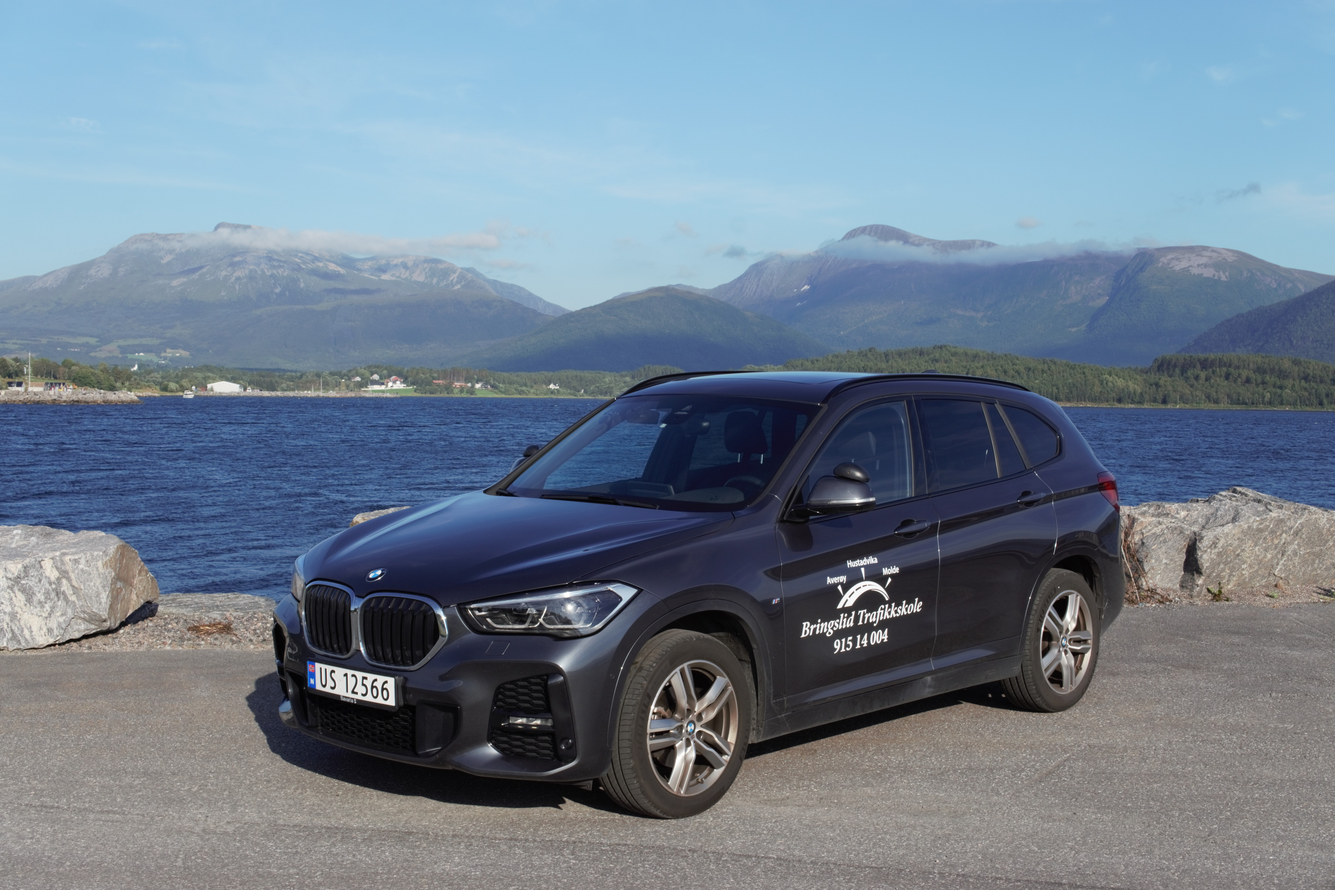
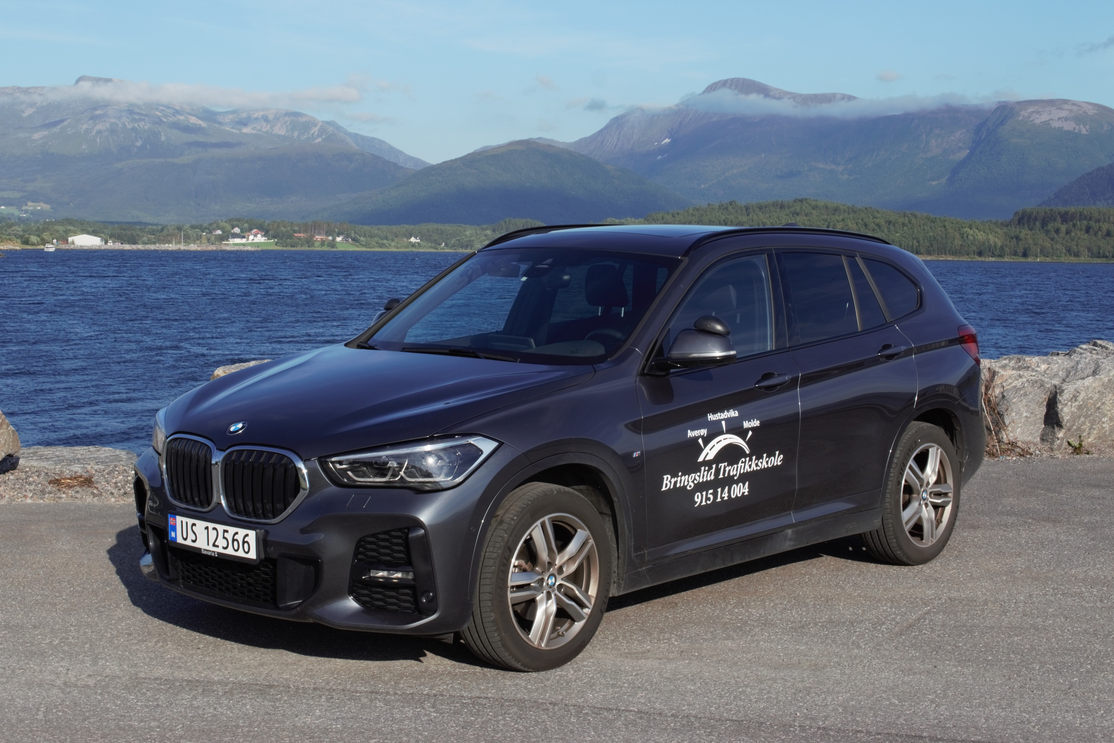
Oppdatert størrelsen på bildene og endret litt tekst

diff --git a/kjoretoy.html b/kjoretoy.html
@@ -57,7 +57,8 @@
 	
 	<div class="jumbotron text-center">
 		<h1>Våre kjøretøy</h1>
-		<p>Her kan du se en oversikt over våre kjøretøy. </p>
+		<p>På denne siden kan du se en oversikt over våre kjøretøy. På Bringslid Trafikkskole har vi biler <br>
+		med både manuellgir og automatgir. Bilder av disse kan du se nedenfor: </p>
 	
 	</div>
 	
@@ -66,7 +67,7 @@
 			<div id="col1" class="col-6"  >
 				<div class="col"  >
 					<h4>BMW X1 </h4>
-					<img src="bringslidtrafikkskole-bmw.jpg" alt="bmw" width="450" height="337">
+					<img src="bringslidtrafikkskole-bmw.jpg" alt="bmw" width="450" height="300">
 					<p>Årsmodell: 2020</p>
 					<p>Girtype: manuell</p>
 					<p>Firhjulstrekk: ja</p>
@@ -75,7 +76,7 @@
 			<div id="col2" class="col-6">
 				<div class="col">
 					<h4>Toyota Yaris Hybrid </h4>
-					<img src="bringslidtrafikkskole-yaris.jpg" alt="bmw" width="450" height="337">
+					<img src="bringslidtrafikkskole-yaris.jpg" alt="bmw" width="450" height="300">
 					<p>Girtype: automat</p>
 				</div>
 			</div>
